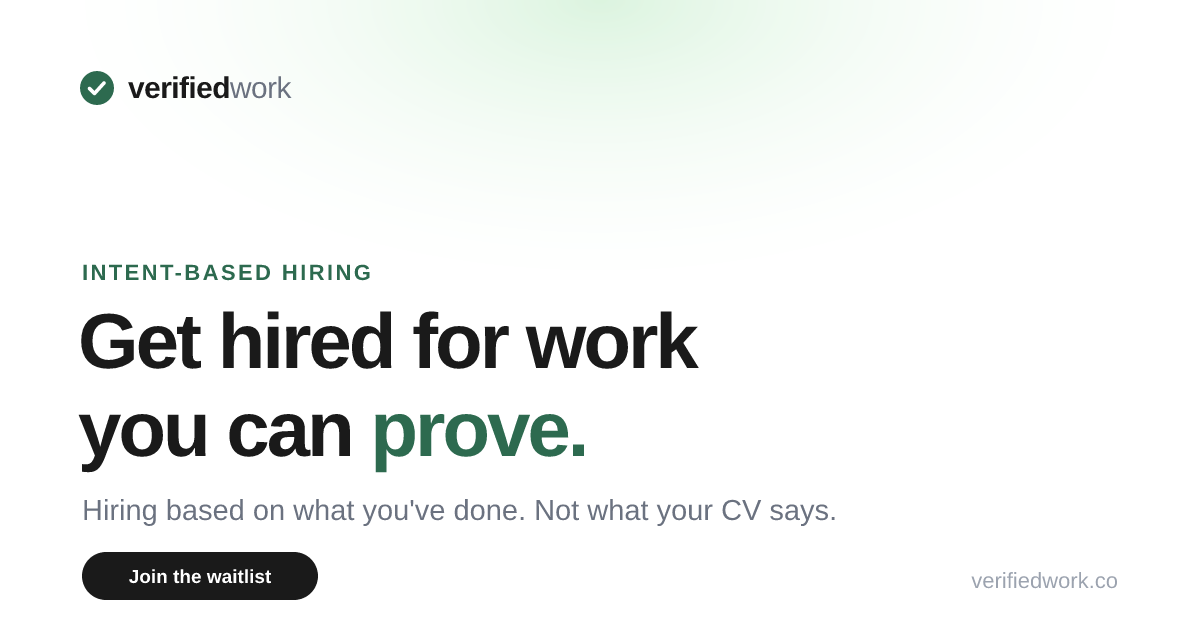
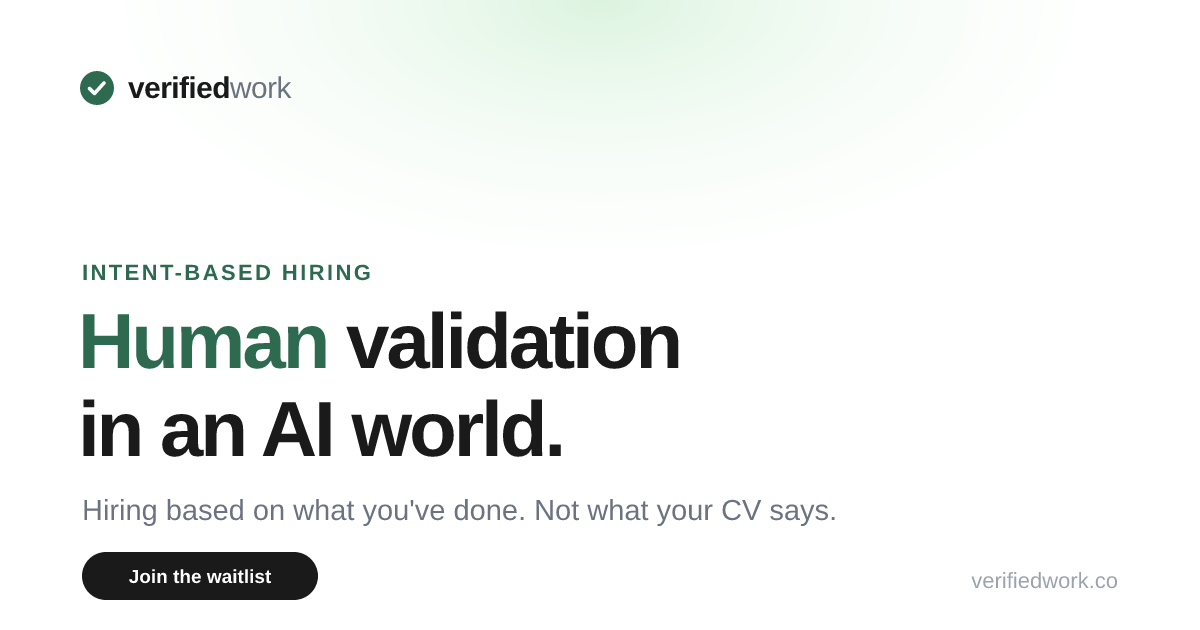
Lead the link preview with the brand tagline
Update the Open Graph and Twitter title and the social preview
image to feature "Human validation in an AI world".

https://claude.ai/code/session_013U3NyidcYZ6cPJrMmkcXhN

Changed region(s): [[0.0617, 0.4825, 0.5858, 0.6032], [0.0617, 0.6333, 0.4933, 0.754]]

diff --git a/index.html b/index.html
@@ -15,7 +15,7 @@
 <meta property="og:type" content="website">
 <meta property="og:site_name" content="verified.work">
 <meta property="og:url" content="https://verifiedwork.co/">
-<meta property="og:title" content="verified.work | Get hired for work you can prove">
+<meta property="og:title" content="verified.work | Human validation in an AI world">
 <meta property="og:description" content="Hiring based on what you've done, not what your CV says. Join the waitlist for intent-based hiring built on human verification.">
 <meta property="og:image" content="https://verifiedwork.co/og-image.png">
 <meta property="og:image:width" content="1200">
@@ -24,7 +24,7 @@
 
 <!-- Twitter -->
 <meta name="twitter:card" content="summary_large_image">
-<meta name="twitter:title" content="verified.work | Get hired for work you can prove">
+<meta name="twitter:title" content="verified.work | Human validation in an AI world">
 <meta name="twitter:description" content="Hiring based on what you've done, not what your CV says. Join the waitlist.">
 <meta name="twitter:image" content="https://verifiedwork.co/og-image.png">
 